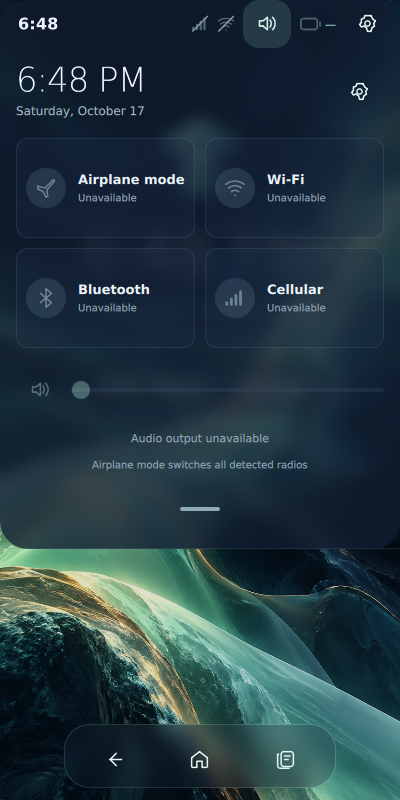
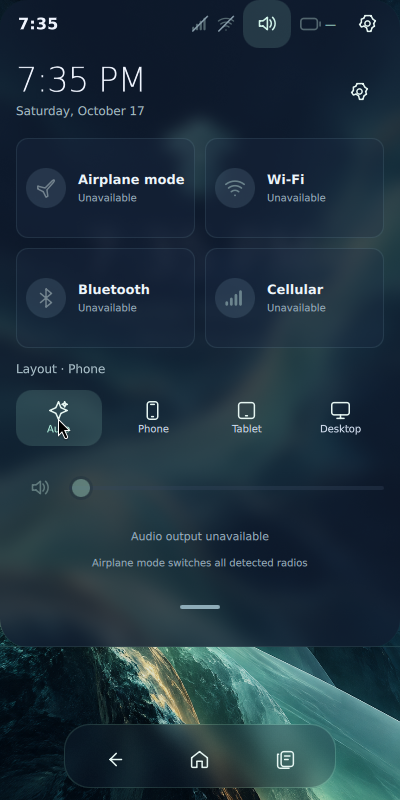
Move layout selection into pull-down controls

diff --git a/shell/shell.qml b/shell/shell.qml
@@ -62,7 +62,6 @@ ShellRoot {
             readonly property bool isPhone: mode === "phone"
             readonly property int navHeight: isPhone ? 76 : 84
             readonly property int launcherRows: Math.ceil(4 / Policy.columns(mode, Policy.panelWidth(mode, modelData.width) - 32))
-            readonly property string modeLabel: (shellPreferences.layoutMode === "auto" ? "Auto · " : "") + Policy.title(mode)
             SystemClock {
                 id: clock
                 precision: SystemClock.Minutes
@@ -408,18 +407,9 @@ ShellRoot {
                     Item {
                         Layout.fillWidth: true
                     }
-                    TouchButton {
-                        visible: surface.modelData.width >= 650
-                        text: surface.modeLabel
-                        implicitWidth: 170
-                        implicitHeight: 48
-                        Layout.minimumHeight: 48
-                        accentColor: root.accentColor
-                        onClicked: { statusBar.drawerOpen = false; panel.showPage("settings"); }
-                    }
                     // Only registered application icons appear; no simulated signals.
                     RowLayout {
-                        Layout.maximumWidth: Math.max(0, surface.modelData.width - (surface.modelData.width >= 650 ? 540 : 370))
+                        Layout.maximumWidth: Math.max(0, surface.modelData.width - 370)
                         clip: true
                         spacing: 0
                         Repeater {
@@ -518,6 +508,8 @@ ShellRoot {
                         id: quickSheet
                         width: parent.width
                         radios: radioBackend
+                        preferences: shellPreferences
+                        activeMode: Policy.title(surface.mode)
                         date: clock.date
                         use24Hour: shellPreferences.use24Hour
                         accentColor: root.accentColor
@@ -595,18 +587,6 @@ ShellRoot {
                             bold: true
                             letterSpacing: 5
                         }
-                    }
-                    TouchButton {
-                        anchors.horizontalCenter: parent.horizontalCenter
-                        text: surface.modeLabel + "  ·  Change"
-                        implicitWidth: Math.min(surface.modelData.width - 32, 260)
-                        accentColor: root.accentColor
-                        background: Rectangle {
-                            radius: 24
-                            color: "#70101b30"
-                            border.color: Qt.alpha(root.accentColor, 0.25)
-                        }
-                        onClicked: panel.showPage("settings")
                     }
                 }
             }

diff --git a/shell/components/QuickSettings.qml b/shell/components/QuickSettings.qml
@@ -5,6 +5,8 @@ import QtQuick.Layouts
 ColumnLayout {
     id: sheet
     required property var radios
+    required property var preferences
+    required property string activeMode
     required property var date
     property bool use24Hour: true
     property color accentColor: "#a9e8d5"
@@ -56,6 +58,37 @@ ColumnLayout {
                 enabled: radio.available && !radio.hardBlocked && sheet.radios.state.canControl && !sheet.radios.busy
                 accentColor: sheet.accentColor
                 onClicked: sheet.radios.toggle(modelData.name)
+            }
+        }
+    }
+    Text {
+        text: "Layout · " + sheet.activeMode
+        color: "#a7bdc6"
+        font.pixelSize: 12
+    }
+    RowLayout {
+        Layout.fillWidth: true
+        spacing: 8
+        Repeater {
+            model: [
+                {value: "auto", label: "Auto", icon: "auto"},
+                {value: "phone", label: "Phone", icon: "phone"},
+                {value: "tablet", label: "Tablet", icon: "tablet"},
+                {value: "desktop", label: "Desktop", icon: "desktop"}
+            ]
+            delegate: NavButton {
+                required property var modelData
+                text: modelData.label
+                symbol: modelData.icon
+                implicitHeight: 56
+                Layout.minimumHeight: 56
+                selected: sheet.preferences.layoutMode === modelData.value
+                accentColor: sheet.accentColor
+                Accessible.name: modelData.value === "auto" ? "Automatic layout" : modelData.label + " layout"
+                onClicked: {
+                    sheet.preferences.layoutMode = modelData.value;
+                    sheet.preferences.sync();
+                }
             }
         }
     }

diff --git a/docs/testing.md b/docs/testing.md
@@ -346,3 +346,21 @@ These controls do not select networks, pair Bluetooth devices or provision mobil
 service. Airplane off unblocks detected radios; previous per-radio selections are
 not restored. No dependencies, services or host desktop configuration were installed
 or changed. This UI update is not included in the published Alpha 1 tester ISO.
+
+## Pull-down layout selector — 2026-10-17
+
+Actual validation:
+
+- `./scripts/check.sh` passed with 17 Python tests and 19 Qt Quick results;
+  known PanelWindow metadata warnings remain and ShellCheck is unavailable.
+- Installed the updated QML in the existing 400×800 development guest. Verified
+  that the home-screen mode button is absent and the glass pull-down shows
+  Auto, Phone, Tablet, and Desktop controls with targets at least 48px.
+- Clicked Desktop in the pull-down, observed the active label and desktop dock
+  update, and verified `layoutMode=desktop` persisted in the guest preferences.
+  Clicked Auto, verified `layoutMode=auto` and the Phone layout returned.
+- Collapsed the sheet using its handle and captured updated home and controls
+  screenshots directly from the guest. No host desktop configuration changed.
+
+Still planned/manual: physical touch and the selector on larger displays.
+The published Alpha 1 ISO does not contain this change.

diff --git a/docs/radio-controls.md b/docs/radio-controls.md
@@ -9,6 +9,11 @@ The status clock uses compact semibold digits without a leading hour zero or
 AM/PM suffix. It follows the saved 12/24-hour choice; its accessible name and
 the expanded clock retain AM/PM when appropriate.
 
+The layout selector is in this sheet rather than on the home screen or status
+bar. Choose Auto, Phone, Tablet, or Desktop; the active layout is shown above
+the buttons. Manual choices persist, and Auto resumes size-based detection.
+The same preferences remain available in Settings.
+
 ## What the switches control
 
 `RadioBackend.qml` runs the installed Python helper with argument arrays. The

diff --git a/assets/screenshots/README.md b/assets/screenshots/README.md
@@ -8,7 +8,7 @@ published Alpha 1 ISO. The ISO predates Quiet Edge and the card switcher.
 - `phone-launcher.png`: glass app launcher, 400 × 800.
 - `phone-switcher.png`: real window previews and glass icon actions, 400 × 800.
 - `phone-settings.png`: saved layout and appearance controls, 400 × 800.
-- `phone-controls.png`: pull-down airplane/radio/volume panel, 400 × 800.
+- `phone-controls.png`: pull-down airplane/radio/volume panel and layout selector, 400 × 800.
 - `tablet-home.png`: automatic Tablet mode, 800 × 1280.
 - `desktop-home.png`: automatic Desktop mode, 1280 × 800.
 
